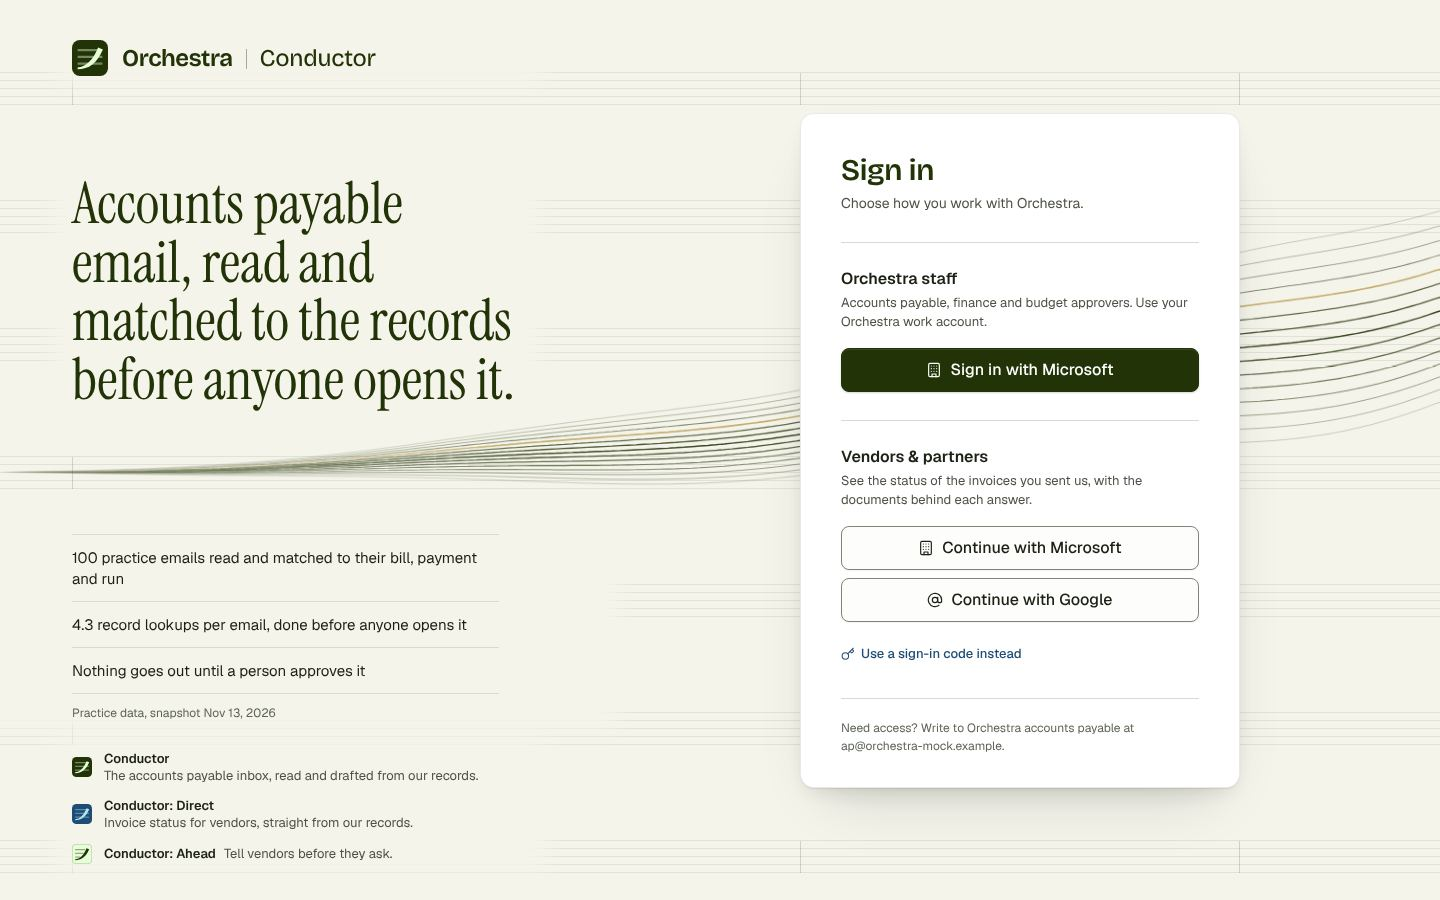
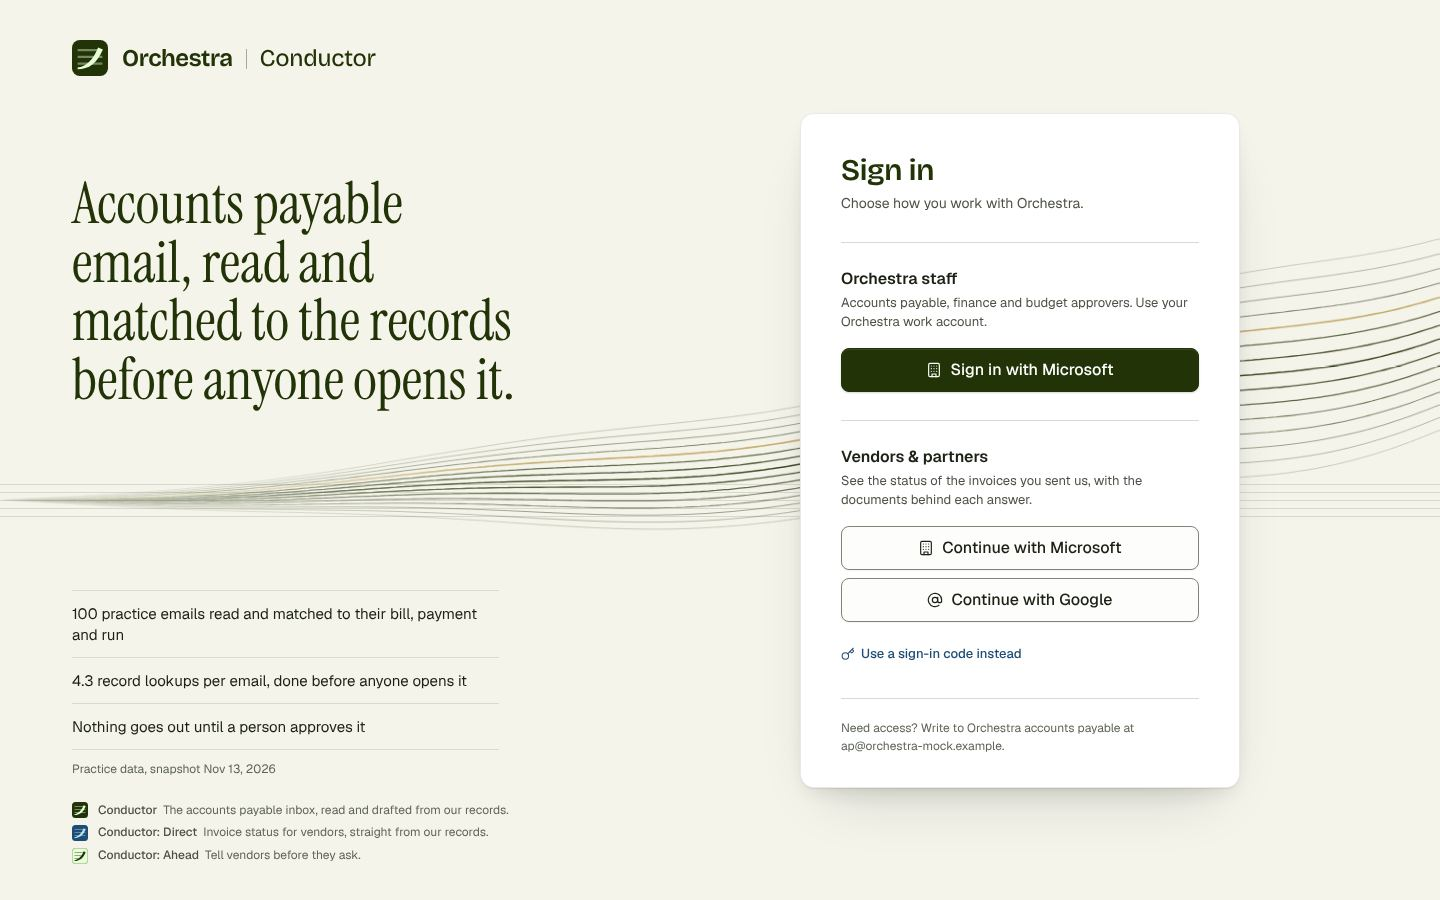
look score round 1: one staff, no bar ticks, darker provider scrim, quiet family footer, ribbon re-fits when the card grows

Changed region(s): [[0.0, 0.4356, 0.5625, 0.9644], [0.8438, 0.2489, 1.0, 0.4978], [0.875, 0.5289, 1.0, 0.56]]

diff --git a/dashboards/conductor/assets/js/hub/looks/score.js b/dashboards/conductor/assets/js/hub/looks/score.js
@@ -1,7 +1,7 @@
 // Hub look A, "Score". Presentation only: this module draws inside the decorative art layer and nothing else.
 //
-// The idea: the sign-in page is a printed score. Faint staves run across warm paper, bar lines fall on the layout's
-// own column edges (the page is set on the score), and one line leaves a staff line at the left, quietly, then swells
+// The idea: the sign-in page is a printed score. One full staff runs across warm paper (fading out around the copy),
+// and one line leaves its middle line at the left, quietly, then swells
 // like a crescendo into a ribbon of fine engraved strokes that opens toward the sign-in card and runs under it. It is
 // the Conductor mark (three staff lines and one sweep that leaves the lowest of them and swells) drawn at page scale.
 //
@@ -16,7 +16,6 @@
 // Knobs (also in docs/ui-upgrade/looks/score.md):
 const KNOBS = {
   staffGap: 8,        // px between the five lines of a staff
-  systemPitch: 128,   // px from one staff (system) to the next
   strokes: 15,        // engraved lines in the ribbon
   swellMax: 0.09,     // the ribbon's half-height at the right edge, as a share of the page width (desktop)
   rise: 0.2,          // how far the ribbon climbs from the left to the right edge, as a share of the viewport height
@@ -126,27 +125,14 @@ function ribbonPaths(m) {
   return out;
 }
 
-/** Staves across the page. Bar lines fall on the layout's own edges, so the page reads as set on the score. */
-function staffPath(m, H) {
-  const { W, y0, card, textX, mode } = m;
+/** The staff: one full five-line staff across the page, placed so the ribbon leaves exactly its middle line. */
+function staffPath(m) {
+  const { W, y0 } = m;
   const gap = KNOBS.staffGap;
-  const pitch = KNOBS.systemPitch;
-  // one staff is placed so the ribbon starts exactly on its middle line
-  const anchorTop = y0 - 2 * gap;
-  const first = anchorTop - Math.ceil(anchorTop / pitch) * pitch;
-  const tops = [];
+  const top = Math.round(y0 - 2 * gap);
   let lines = '';
-  for (let top = first; top < H + pitch; top += pitch) {
-    const t = Math.round(top);
-    tops.push(t);
-    for (let k = 0; k < 5; k += 1) lines += `M0 ${t + k * gap + 0.5}H${W}`;
-  }
-  const xs = new Set();
-  if (mode === 'split' && textX) xs.add(Math.round(textX) + 0.5);
-  if (card) { xs.add(Math.round(card.left) + 0.5); xs.add(Math.round(card.right) - 0.5); }
-  let bars = '';
-  for (const t of tops) for (const x of xs) bars += `M${x} ${t + 0.5}V${t + 4 * gap + 0.5}`;
-  return { lines, bars };
+  for (let k = 0; k < 5; k += 1) lines += `M0 ${top + k * gap + 0.5}H${W}`;
+  return lines;
 }
 
 export function mount(art, { reduced = false } = {}) {
@@ -160,7 +146,7 @@ export function mount(art, { reduced = false } = {}) {
   art.append(staffSvg, ribbonBox);
 
   let lastKey = '';
-  const keyOf = (m) => `${m.mode}|${m.W}|${Math.max(m.H, m.vh)}|${Math.round(m.y0)}|${Math.round(m.card?.left || 0)}`;
+  const keyOf = (m) => [m.mode, m.W, Math.max(m.H, m.vh), m.y0, m.card?.left, m.card?.top, m.card?.height].map((v) => Math.round(v || 0) || v).join('|');
 
   function draw({ animate }) {
     const m = measure();
@@ -171,8 +157,7 @@ export function mount(art, { reduced = false } = {}) {
     for (const s of [staffSvg, ribbonSvg]) {
       s.setAttribute('width', W); s.setAttribute('height', H); s.setAttribute('viewBox', `0 0 ${W} ${H}`);
     }
-    const st = staffPath(m, H);
-    // the staves step aside for the copy: a soft-edged mask, computed once per layout (static, no per-frame cost)
+    // the staff steps aside for the copy: a soft-edged mask, computed once per layout (static, no per-frame cost)
     const pad = 18;
     const mask = el('mask', { id: 'score-clear', maskUnits: 'userSpaceOnUse', x: 0, y: 0, width: W, height: H },
       el('rect', { x: 0, y: 0, width: W, height: H, fill: 'white' }),
@@ -181,7 +166,7 @@ export function mount(art, { reduced = false } = {}) {
       }))));
     const soft = el('filter', { id: 'score-soft', x: '-10%', y: '-10%', width: '120%', height: '120%' }, el('feGaussianBlur', { stdDeviation: 10 }));
     staffSvg.replaceChildren(el('defs', {}, soft, mask), el('g', { mask: 'url(#score-clear)' },
-      el('path', { class: 'score-staff-lines', d: st.lines }), el('path', { class: 'score-staff-bars', d: st.bars })));
+      el('path', { class: 'score-staff-lines', d: staffPath(m) })));
     // the ribbon fades in from nothing at the left edge (it enters quietly) and reaches full ink before the card
     const fadeEnd = r1(m.mode === 'split' ? Math.max(m.colX, W * 0.38) : W * 0.55);
     const grad = (id, cls, stops) => el('linearGradient', { id, gradientUnits: 'userSpaceOnUse', x1: 0, y1: 0, x2: fadeEnd, y2: 0 },
@@ -213,27 +198,16 @@ export function mount(art, { reduced = false } = {}) {
     if (animate && !reduced) {
       void ribbonSvg.getBoundingClientRect();
       art.classList.add('is-drawing');
+    } else if (!reduced && lastKey) {
+      // a re-fit (resize, the card growing): the new ribbon fades in over the old place instead of jumping
+      ribbonSvg.animate?.([{ opacity: 0 }, { opacity: 1 }], { duration: 240, easing: 'cubic-bezier(0.23, 1, 0.32, 1)' });
     }
     art.classList.add('is-ready');
     lastKey = keyOf(m);
     return true;
   }
 
-  // Draw once the hub (or the handshake) is on the page, and again when the handshake replaces the card.
-  const root = document.getElementById('hub-root');
-  const fontsReady = Promise.race([document.fonts?.ready ?? Promise.resolve(), new Promise((r) => { setTimeout(r, 300); })]);
-  let scene = null;
-  const sync = () => {
-    const now = document.querySelector('.hub-handshake') ? 'handshake' : (document.querySelector('.hub-card') ? 'hub' : null);
-    if (!now || now === scene) return;
-    scene = now;
-    fontsReady.then(() => requestAnimationFrame(() => draw({ animate: true })));
-  };
-  const mo = new MutationObserver(sync);
-  if (root) mo.observe(root, { childList: true, subtree: true });
-  sync();
-
-  // Resizes (and the page growing when the code panel or the simulated inbox opens) redraw without animation.
+  // Resizes, the page growing and the card growing redraw without the draw-in (debounced).
   let timer = 0;
   const onResize = () => {
     clearTimeout(timer);
@@ -246,6 +220,22 @@ export function mount(art, { reduced = false } = {}) {
   addEventListener('resize', onResize);
   const ro = typeof ResizeObserver === 'function' ? new ResizeObserver(onResize) : null;
   ro?.observe(document.body);
+
+  // Draw once the hub (or the handshake) is on the page, and again when the handshake replaces the card.
+  const root = document.getElementById('hub-root');
+  const fontsReady = Promise.race([document.fonts?.ready ?? Promise.resolve(), new Promise((r) => { setTimeout(r, 300); })]);
+  let scene = null;
+  const sync = () => {
+    const now = document.querySelector('.hub-handshake') ? 'handshake' : (document.querySelector('.hub-card') ? 'hub' : null);
+    const slot = document.querySelector('.hub-signin-inner');
+    if (slot) ro?.observe(slot);                    // the card grows (code panel, simulated inbox): re-fit the ribbon
+    if (!now || now === scene) return;
+    scene = now;
+    fontsReady.then(() => requestAnimationFrame(() => draw({ animate: true })));
+  };
+  const mo = new MutationObserver(sync);
+  if (root) mo.observe(root, { childList: true, subtree: true });
+  sync();
 
   const onVis = () => art.classList.toggle('is-paused', document.hidden);
   document.addEventListener('visibilitychange', onVis);

diff --git a/dashboards/conductor/assets/css/hub/looks/score.css b/dashboards/conductor/assets/css/hub/looks/score.css
@@ -8,8 +8,8 @@
 /* ---- proposed tokens (scoped to this look; the orchestrator may move them into tokens.css) ------------------- */
 html[data-look="score"] {
   --score-paper: color-mix(in oklab, var(--p-paper-50) 74%, var(--p-brass-100));  /* warm paper, about #f6f4ec */
-  --score-staff: rgb(var(--p-shadow-rgb) / 0.085);       /* the printed staves */
-  --score-bar: rgb(var(--p-shadow-rgb) / 0.16);          /* bar lines on the layout's edges */
+  --score-staff: rgb(var(--p-shadow-rgb) / 0.13);        /* the one printed staff */
+  --score-scrim: rgb(var(--p-shadow-rgb) / 0.58);        /* behind the provider window: 58% of the green ink */
   --score-ink: var(--deco-ink);                          /* the ribbon: Orchestra green */
   --score-brass: var(--deco-brass-line);                 /* one brass stroke in the ribbon */
   --score-sheet: var(--color-surface-raised);            /* the card: a white sheet on the paper */
@@ -32,7 +32,6 @@ html[data-look="score"] .score-ribbon { position: absolute; inset: 0 auto auto 0
 html[data-look="score"] .score-staff,
 html[data-look="score"] .score-ribbon-svg { display: block; max-width: none; overflow: visible; }
 html[data-look="score"] .score-staff-lines { fill: none; stroke: var(--score-staff); stroke-width: 1; shape-rendering: crispEdges; }
-html[data-look="score"] .score-staff-bars { fill: none; stroke: var(--score-bar); stroke-width: 1; shape-rendering: crispEdges; }
 html[data-look="score"] .score-stroke { fill: none; stroke-linecap: round; stroke-linejoin: round; }
 html[data-look="score"] .score-stop-ink { stop-color: var(--score-ink); }
 html[data-look="score"] .score-stop-brass { stop-color: var(--score-brass); }
@@ -78,9 +77,16 @@ html[data-look="score"] .hub-proof-list { border-top: 1px solid var(--score-rule
 html[data-look="score"] .hub-proof-list li { padding: 12px 0; border-bottom: 1px solid var(--score-rule); font-size: var(--fs-body-lg); color: var(--color-text); }
 html[data-look="score"] .hub-proof-source { padding-top: 10px; color: var(--color-text-muted); }
 
-html[data-look="score"] .hub-family { padding-top: 28px; }
-html[data-look="score"] .hub-family ul { border-top: 0; padding-top: 0; gap: 12px; }
-html[data-look="score"] .hub-family-text span { color: var(--color-text-secondary); }
+/* the family: a quiet footer, one line per product (it must not compete with the proof points) */
+html[data-look="score"] .hub-family { padding-top: 24px; }
+html[data-look="score"] .hub-family ul { border-top: 0; padding-top: 0; gap: 6px; }
+html[data-look="score"] .hub-family-item { gap: 10px; }
+html[data-look="score"] .hub-family .c-mark { width: 16px; height: 16px; }
+html[data-look="score"] .hub-family-text { display: block; font-size: var(--fs-xs); line-height: 1.4; color: var(--color-text-muted); }
+html[data-look="score"] .hub-family-text strong { font-weight: var(--fw-medium); color: var(--color-text-secondary); margin-right: 6px; }
+html[data-look="score"] .hub-family-text span { color: var(--color-text-muted); }
+/* Ahead keeps its mint field everywhere (BRAND.md); on this paper its edge needs more ink to hold the shape */
+html[data-look="score"] .hub .c-mark-ahead .c-mark-edge { stroke: var(--color-chrome); opacity: 0.6; }
 
 /* ---- the card: a crisp sheet lying on the score -------------------------------------------------------------- */
 html[data-look="score"] .hub-card {
@@ -108,7 +114,7 @@ html[data-look="score"] .hub-inbox-head { background: var(--color-surface-subtle
 
 /* ---- the provider window (staff picker, vendor email step) --------------------------------------------------- */
 html[data-look="score"] dialog.hub-provider { background: var(--score-sheet); border-color: var(--score-sheet-edge); }
-html[data-look="score"] dialog.hub-provider::backdrop { background: rgb(var(--p-shadow-rgb) / 0.30); }
+html[data-look="score"] dialog.hub-provider::backdrop { background: var(--score-scrim); backdrop-filter: saturate(0.55); }
 html[data-look="score"] .hub-provider-title { font-family: var(--font-display); color: var(--color-text-display); }
 html[data-look="score"] .hub-picker-group-title { background: var(--score-sheet); }
 html[data-look="score"] .hub-provider-form > .hub-account,

diff --git a/docs/ui-upgrade/looks/score.md b/docs/ui-upgrade/looks/score.md
@@ -1,25 +1,24 @@
 # Look A: Score
 
-**The idea in one sentence.** The sign-in page is a printed score on warm paper: faint staves run across it, and one
-line leaves a staff line at the left, quietly, then swells like a crescendo into a ribbon of fine engraved strokes that
+**The idea in one sentence.** The sign-in page is a printed score on warm paper: one full staff runs across it, and one
+line leaves its middle line at the left, quietly, then swells like a crescendo into a ribbon of fine engraved strokes that
 opens toward the sign-in card and runs under it, a crisp white sheet lying on the score.
 
 Files: `dashboards/conductor/assets/css/hub/looks/score.css`, `dashboards/conductor/assets/js/hub/looks/score.js`.
 Screenshots: `docs/ui-upgrade/shots/looks/score/` (hub, picker, vendor, code, handshake at 375 and 1440; `hub@1920.jpg`;
-`hub-reduced@1440.jpg`).
+`hub-reduced@1440.jpg`; `hub-code-inbox@1440.jpg` shows the ribbon re-fitted after the card grew).
 
 ## Why it could only be Conductor
 
 - The ribbon is the **Conductor mark drawn at page scale**: the mark is three staff lines and one sweep that leaves the
   lowest of them and swells as it rises. Here the line starts on a real staff line (the middle line of the staff that
   sits in the band under the headline), swells and climbs to the upper right. It is the brand's own construction.
-- **The layout is set on the score.** Bar lines fall on the layout's own edges: the text column's left edge and both
-  edges of the sign-in card. Staves step aside (a soft clearing) wherever there is copy, the way a printed page leaves
-  room for text, so no line runs through words.
+- **One deliberate staff**, in the band between the headline and the proof points, and the line leaves exactly its
+  middle line. A soft mask fades it out around every text block, so no line runs behind words.
 - A **crescendo**, not a decoration: quiet at the left (one hairline fading in from nothing), loud where the person acts.
   The page reads from the promise to the card.
 - On the **handshake**, the line draws again, now toward the centred card, so the hand-off to /app keeps the same paper,
-  the same staves and the same gesture. The card is the only thing that changes.
+  the same staff and the same gesture. The card is the only thing that changes.
 
 Everything else is quiet: the Instrument Serif headline is the one editorial moment, proof points and the family sit on
 hairlines in the normal ink ramp, the card uses only existing component tokens.
@@ -32,20 +31,23 @@ hairlines in the normal ink ramp, the card uses only existing component tokens.
 | Ribbon climb | `KNOBS.rise` | `0.2` | how far the line climbs from left to right, as a share of the viewport height |
 | Strokes | `KNOBS.strokes` | `15` | engraved lines in the ribbon (fewer is quieter) |
 | Waveform | `KNOBS.wave` | `0.16` | ripple amplitude, as a share of the ribbon's half-height |
-| Staves | `KNOBS.staffGap`, `KNOBS.systemPitch`; `--score-staff`, `--score-bar` in `score.css` | `8`, `128`; 8.5% and 16% ink | line spacing, system spacing and strength of the score |
+| Staff | `KNOBS.staffGap`; `--score-staff` in `score.css` | `8`; 13% ink | line spacing and strength of the one staff |
+| Dialog scrim | `--score-scrim` in `score.css` | 58% green ink, `saturate(0.55)` | how far the page recedes behind the provider window |
 | Breathing | `@keyframes score-breathe` in `score.css` | `scaleY(1.045)`, 9 s, alternate | set the `to` scale to 1 to turn it off |
 | Paper and sheet | `--score-paper`, `--score-sheet-shadow` | paper-50 mixed with 26% brass wash (about `#f5f4eb`) | warmth of the page, lift of the card |
 
 ## Motion
 
-- First load (under 700 ms): staves fade in (360 ms), the ribbon draws itself from the left with stroke-dashoffset
+- First load (under 700 ms): the staff fades in (360 ms), the ribbon draws itself from the left with stroke-dashoffset
   (560 ms, `--ease-emphasized`, outer strokes up to 80 ms behind the centre), the card settles 10 px with a fade
   (480 ms from 60 ms), the brand column fades without moving.
 - Ambient: the ribbon breathes (scaleY 1 to 1.045 over 9 s) on its own compositor layer; no JS runs per frame.
   Paused on `visibilitychange` (class `is-paused`).
 - Handshake: the ribbon is rebuilt toward the centred card and draws again; the card settles.
+- The card growing (code panel, simulated inbox) or a resize: a ResizeObserver on the card slot and the body re-fits the
+  ribbon (debounced 140 ms) and fades the new one in over 240 ms.
 - Reduced motion: the composition is drawn complete, nothing moves (class `is-still` plus a media query); the static
-  page is the designed state (`hub-reduced@1440.jpg`).
+  page is the designed state (`hub-reduced@1440.jpg`; `hub-code-inbox@1440.jpg` shows the ribbon re-fitted after the card grew).
 
 ## Measured frame cost
 
@@ -65,7 +67,7 @@ The breathing figure is mostly the sampling loop itself; layout per frame is 0. 
 Paper is `rgb(245 244 235)`. Measured on it: headline 12.3:1, proof points 14.9:1, family taglines 7.3:1, the proof
 source (muted, 12 px) 5.5:1, the lockup 12.3:1. Text never sits on the ribbon (it is fitted to the empty band between
 the headline and the proof list) and the staves are masked away around every text block, so the worst spot behind
-text is the paper itself. Card text sits on white. axe is clean (smoke 11).
+text is the paper itself. Family footer (12 px): names 7.3:1, taglines 5.5:1. Card text sits on white. axe is clean (smoke 11).
 
 ## Decisions
 
@@ -76,16 +78,17 @@ text is the paper itself. Card text sits on white. axe is clean (smoke 11).
   `.hub-signin-inner > .hub-card`, `.hub-handshake-card`. A MutationObserver on `#hub-root` notices the handshake.
 - A slight fold and a waveform keep the bundle reading as a ribbon; a stronger twist (tried first) pinched the ribbon to
   nothing beyond the card, so it was cut.
-- Bar lines only on real edges; a bar at the brand column's edge was tried and read as random, so it was dropped.
+- Round 1 review: bar-line ticks on the layout edges were removed (they read as leftover guides and boxed the
+  handshake card); the repeating staves became one staff; the provider scrim is darker (58% ink, desaturated); the
+  product family is a quiet one-line-per-product footer (12 px, 16 px marks); the Ahead mark gets a darker edge on paper.
 - One brass stroke in the ribbon, olive-gold, thin; nothing brass touches the card or any chip.
 - Picker rows keep square ends (rounding them bent the hairline separators).
 
 ## Known limits
 
-- The ribbon's position is computed from the layout at load; if the card changes height (code panel, simulated inbox)
-  the ribbon stays where it was. Only the staves extend with the page.
 - On very short desktop windows (under about 700 px tall) the band between the headline and the proof list is narrow, so
   the ribbon stays a hairline across the text column and opens only past it.
+- The scrim's desaturation uses `backdrop-filter` on the static `::backdrop`; browsers without it get the darker scrim only.
 - At 375 the ribbon lives in a band under the headline and tucks under the card's top edge; it scrolls away with the
   page, by design.
 - No markup hooks were needed.
